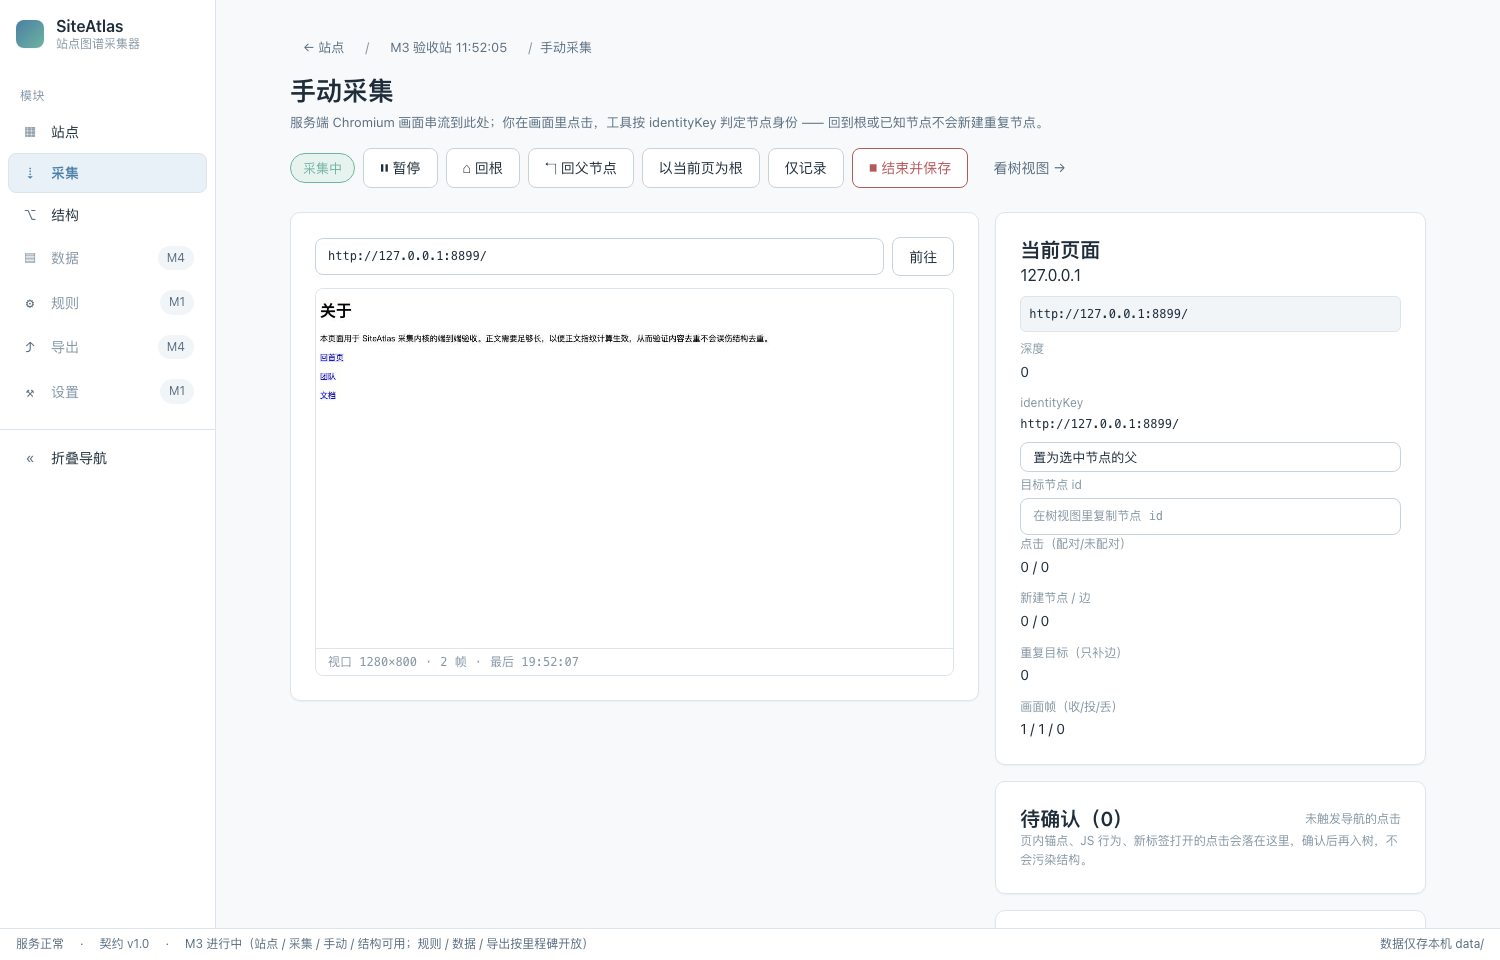
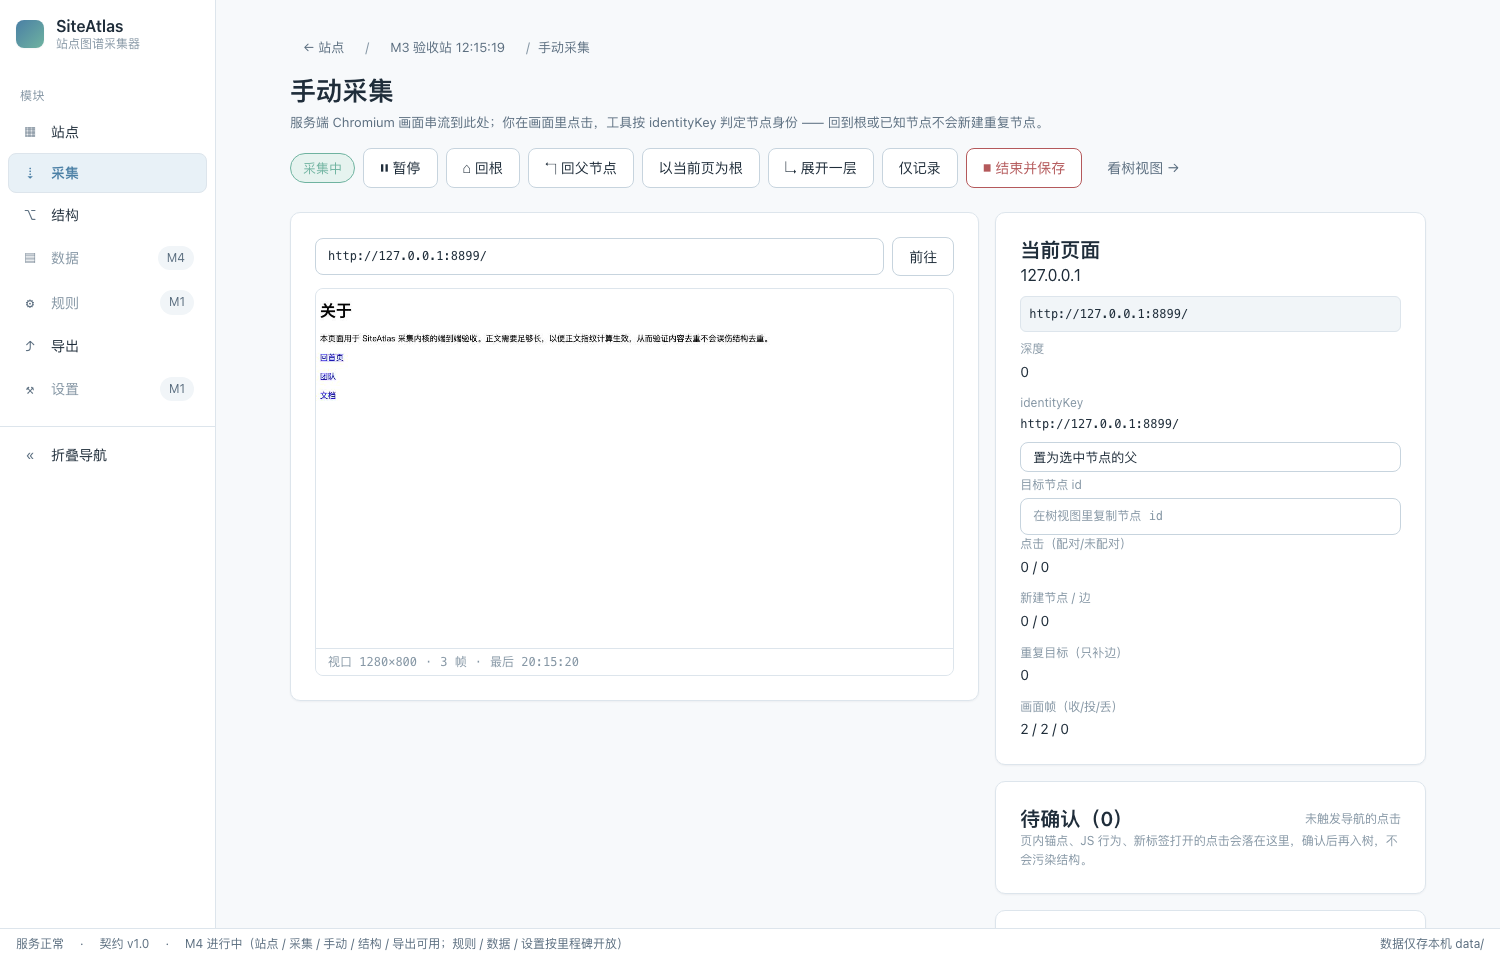
M4: 补齐 requirements §4.3 的「展开一层」动作与复查结论
- 手动会话新增 expandOneLevel()：当前页下建占位节点（need_human）+ 建 manual 边 + 导航过去，
  连续展开复用同一基址不套娃；暂停时拒绝
- WS 新增上行消息 expand，前端工具条补上「↳ 展开一层」按钮
- M3 单元测试 +1（11 项）、M3 e2e 断言 +3（25 项全过）
- DECISIONS 记录：复查全量规格后确认「不在 M4 范围」的条目清单（导出预设界面、聚焦子树按钮、
  站点对比、定时重爬、sitemap 种子、深色模式、首次运行合规提示、跨平台实机验证）
- README 同步（M3 25 项 / npm test 109 项）

diff --git a/server/src/core/manual/session.ts b/server/src/core/manual/session.ts
@@ -492,6 +492,70 @@ export class ManualSession {
     return { ...node, __fresh: created };
   }
 
+  /* ---------------- 展开一层（§4.3 手动工具条 / §6.5 记录并展开） ---------------- */
+
+  /**
+   * 展开一层：在当前页面下虚拟出一个「下一层」，导航过去并建边建节点。
+   *
+   * 为什么要有这个动作（而不是只靠用户点链接）：
+   *   requirements §4.3 的手动模式工具条明确要求「开始-暂停-继续-回根-**展开一层**-结束并保存」。
+   *   当页面上的链接被 JS 拦截、或用户想按自己的意图继续深入（例如页面还没做完），
+   *   点链接走不通 —— 这时需要一个「我说了算」的推进动作。
+   *
+   * 地址怎么来：手动模式没有真实的目标地址可用（是用户意图，不是页面上存在的链接），
+   * 因此按当前页地址派生一个**可预期的占位地址**：`<当前路径>/siteatlas-expand/<序号>`。
+   *   · 只写本地图（节点 + 边），不改站点数据；
+   *   · 目标页大概率不存在（404）——这是这个动作的固有语义，记在 node.status='need_human'
+   *     并在事件里说清楚：占位节点的地址应当在「修改地址」里改成真实地址。
+   *   · 若该占位地址已被占用（重复点），序号自增，保证每次都是新的一层。
+   */
+  async expandOneLevel(): Promise<{ ok: boolean; message: string; nodeId: string | null; url: string | null }> {
+    if (this.status !== 'running') {
+      return { ok: false, message: '会话未在记录状态（暂停/已结束），无法展开', nodeId: null, url: null };
+    }
+    const current = this.current;
+    if (current === null) return { ok: false, message: '当前页面身份未知', nodeId: null, url: null };
+
+    const base = this.safeNormalize(current.url);
+    if (base === null) return { ok: false, message: `当前地址不合法：${current.url}`, nodeId: null, url: null };
+
+    // 若当前页本身就是占位地址（连续展开），从它的基址继续，避免 /siteatlas-expand/1/siteatlas-expand/1 这种套娃
+    const prefix = (base.url.replace(/\/+$/, '').replace(/\/siteatlas-expand\/\d+$/, '') || base.url.replace(/\/+$/, ''));
+    let candidate: string | null = null;
+    let normalized: ReturnType<typeof this.safeNormalize> = null;
+    for (let seq = 1; seq <= 50; seq++) {
+      normalized = this.safeNormalize(`${prefix}/siteatlas-expand/${seq}`);
+      if (normalized === null) break;
+      if (this.nodes.findByUrlForSite(this.deps.siteId, normalized.url, normalized.identityKey) === null) {
+        candidate = normalized.url;
+        break;
+      }
+    }
+    if (candidate === null || normalized === null) {
+      return { ok: false, message: '无法派生占位地址（当前地址形态不支持）', nodeId: null, url: null };
+    }
+    if (!this.inScope(normalized)) {
+      return { ok: false, message: `超出站点范围（${this.deps.siteScope}）：${normalized.host}`, nodeId: null, url: null };
+    }
+
+    const node = this.upsertNode({
+      url: normalized.url,
+      identityKey: normalized.identityKey,
+      parentId: current.nodeId,
+      depth: Math.min(MAX_MANUAL_DEPTH, current.depth + 1),
+      displayLabel: deriveDisplayLabel({ url: normalized.url, title: null }),
+      reason: 'expand-one-level',
+    });
+    // 占位地址不是抓来的页面：标成 need_human，提示用户回来改地址
+    this.nodes.setStatus(node.id, 'need_human');
+    this.linkEdge({ fromNodeId: current.nodeId, toNodeId: node.id, payload: null, href: normalized.url });
+    this.emit('warn', `已展开一层（占位地址 ${normalized.url}）——页面多半不存在，请在树视图里用「修改地址」改成真实地址`);
+
+    // 等导航落地再返回：调用方（WS）随后立刻取 state，若不等就会拿到「展开前」的身份
+    await this.navigate(normalized.url);
+    return { ok: true, message: `已展开一层：${normalized.url}`, nodeId: node.id, url: normalized.url };
+  }
+
   /* ---------------- 待确认队列与人工指定 ---------------- */
 
   private pushPendingConfirm(item: PendingConfirm): void {

diff --git a/server/src/core/manual/manual.test.ts b/server/src/core/manual/manual.test.ts
@@ -263,6 +263,49 @@ test('M3 人工指定：以当前页为根 / 置为父节点（防环）+ 痕迹
   }
 });
 
+test('M3 展开一层：在当前页下建占位节点 + 建边 + 导航过去，且不重复', async () => {
+  const h = await makeHarness();
+  try {
+    const { session, page } = h.makeSession();
+    await session.start();
+
+    page.pushClick({ href: 'http://t.local/a', anchorText: 'A' });
+    page.pushNavigation('http://t.local/a');
+    const aId = session.state().current?.nodeId as string;
+
+    const before = h.handle.db.prepare('SELECT COUNT(*) AS c FROM nodes WHERE site_id = ?').get(h.siteId) as { c: number };
+    const expanded = await session.expandOneLevel();
+    assert.equal(expanded.ok, true, expanded.message);
+    assert.equal(expanded.url, 'http://t.local/a/siteatlas-expand/1');
+    assert.equal(session.state().current?.nodeId, expanded.nodeId, '展开后应导航过去（身份切到新节点）');
+    assert.equal(page.navigationHistory.at(-1), 'http://t.local/a/siteatlas-expand/1');
+
+    const after = h.handle.db.prepare('SELECT COUNT(*) AS c FROM nodes WHERE site_id = ?').get(h.siteId) as { c: number };
+    assert.equal(after.c, before.c + 1, '展开一层应新建 1 个节点');
+
+    const node = h.nodes.get(expanded.nodeId as string);
+    assert.equal(node?.auto_parent_id, aId, '新节点应挂在展开前的当前页下');
+    assert.equal(node?.status, 'need_human', '占位地址不是真实页面，标记为待人工处理');
+    const edgeCount = h.handle.db
+      .prepare("SELECT COUNT(*) AS c FROM edges WHERE site_id = ? AND from_id = ? AND to_id = ?")
+      .get(h.siteId, aId, expanded.nodeId) as { c: number };
+    assert.equal(edgeCount.c, 1, '展开应同时建一条边');
+
+    // 再点一次：不能复用同一个占位地址（否则等于原地踏步）
+    const second = await session.expandOneLevel();
+    assert.equal(second.ok, true);
+    assert.equal(second.url, 'http://t.local/a/siteatlas-expand/2');
+
+    // 暂停时不允许展开
+    session.pause();
+    const blocked = await session.expandOneLevel();
+    assert.equal(blocked.ok, false);
+    assert.match(blocked.message, /未在记录状态/);
+  } finally {
+    h.close();
+  }
+});
+
 test('M3 回根/回父都是绝对导航，且输入事件原样回传', async () => {
   const h = await makeHarness();
   try {

diff --git a/web/src/modules/manual/ManualPage.tsx b/web/src/modules/manual/ManualPage.tsx
@@ -126,6 +126,14 @@ export function ManualPage({ siteId }: ManualPageProps): React.JSX.Element {
               </button>
               <button
                 type="button"
+                className="btn"
+                onClick={() => send({ type: 'expand' })}
+                title="在当前页面下虚拟出一个下一层并导航过去（占位地址，之后可在树视图里改地址）"
+              >
+                ↳ 展开一层
+              </button>
+              <button
+                type="button"
                 className={state?.progressMode === 'record-and-expand' ? 'btn btn--primary' : 'btn'}
                 onClick={() =>
                   send({ type: 'mode', mode: state?.progressMode === 'record-and-expand' ? 'record-only' : 'record-and-expand' })

diff --git a/server/src/api/ws-manual.ts b/server/src/api/ws-manual.ts
@@ -41,6 +41,7 @@ export interface ManualUpstream {
     | 'back-parent'
     | 'set-root'
     | 'set-parent'
+    | 'expand'
     | 'mode'
     | 'pause'
     | 'resume'
@@ -125,6 +126,11 @@ export async function registerManualWsRoutes(app: FastifyInstance, service: Manu
             case 'back-parent':
               await session.backToParent();
               break;
+            case 'expand': {
+              const outcome = await session.expandOneLevel();
+              if (!outcome.ok) send({ type: 'error', code: 'EXPAND_FAILED', message: outcome.message });
+              break;
+            }
             case 'set-root':
               session.setCurrentAsRoot();
               break;

diff --git a/web/src/modules/manual/api.ts b/web/src/modules/manual/api.ts
@@ -89,6 +89,7 @@ export type ManualUpstreamMessage =
   | { type: 'navigate'; url: string }
   | { type: 'back-root' }
   | { type: 'back-parent' }
+  | { type: 'expand' }
   | { type: 'set-root' }
   | { type: 'set-parent'; nodeId: string }
   | { type: 'mode'; mode: 'record-only' | 'record-and-expand' }

diff --git a/README.md b/README.md
@@ -13,7 +13,7 @@
 | M0 骨架 | ✅ | 仓库结构、SQLite 迁移、URL 规范化与身份、`/api/sites` 五接口、站点卡片视图 |
 | M1 自动采集 | ✅ | 抓取器（静态 + JS 回落）、持久化队列、三层去重、全部护栏、实时进度、懒加载树视图 |
 | M2 树视图 | ✅ | 虚拟滚动、懒加载、属性面板、隐藏地址、软删、撤销重做、拖拽重挂、回收站 |
-| M3 手动采集 | ✅ | CDP 画面串流 + 输入回传 + 点击捕获 + 回根识别（验收 22 项断言全过） |
+| M3 手动采集 | ✅ | CDP 画面串流 + 输入回传 + 点击捕获 + 回根识别 + 展开一层（验收 25 项断言全过） |
 | M4 导出与开放 | ✅ | JSON/JSONL/CSV/SQLite/Mermaid 导出 + manifest + 对外只读 API（验收 28 项，含独立第三方脚本） |
 
 
@@ -40,7 +40,10 @@ M3 已实现的关键机制：
 - **输入**：画面上的鼠标/键盘/滚轮折成 CDP `Input.dispatchMouseEvent` / `dispatchKeyEvent` 回传，等于「在浏览器里手动点」；
 - **点击捕获**：`Runtime.addBinding` + 捕获阶段 click 监听，点击先进「点击↔导航」配对队列，只有真的发生导航才建边建节点；未触发导航的点击进**待确认队列**（界面实时显示，确认后才入树）；
 - **身份与回根**：一律按 `identityKey` 判身份，回到根/已知节点**只补边不重复建节点**；回根/回父用绝对 URL 导航，不用浏览器后退；越界导航被范围校验拒绝；
-- **人工纠正**：「以当前页为根」「置为父节点」直写并留 `manual_overrides` 痕迹；防环校验沿祖先链。
+- **人工纠正**：「以当前页为根」「置为父节点」直写并留 `manual_overrides` 痕迹；防环校验沿祖先链；
+- **展开一层**（§4.3 工具条）：为「链接被 JS 拦截 / 用户想按自己意图继续深入」提供一个明确的推进动作 ——
+  在当前页下建一个占位子节点（派生地址 `<当前路径>/siteatlas-expand/<n>`，标 `need_human`）并导航过去，
+  之后可在树视图用「修改地址」改成真实地址。
 
 M2 已实现的关键机制：
 
@@ -90,7 +93,7 @@ npm run dev          # server 用 tsx watch（:8787），web 用 vite（:5173，
 ## 校验
 
 ```bash
-npm test             # node --test：URL 规范化/范围、迁移与 DDL、/api/sites、采集内核与接口、WS、手动会话、导出与只读 API（108 项）
+npm test             # node --test：URL 规范化/范围、迁移与 DDL、/api/sites、采集内核与接口、WS、手动会话、导出与只读 API（109 项）
 npm run typecheck    # shared + server + web 三处 tsc --noEmit
 
 node scripts/demo-site.mjs 8899      # 起本地演示站（多级/多父/变体/404/robots/素材/SPA/分页）
@@ -98,7 +101,7 @@ node scripts/demo-site.mjs 8899      # 起本地演示站（多级/多父/变体
 node scripts/e2e-m0-screenshot.mjs   # M0 端到端 + 截图
 node scripts/e2e-m1-crawl.mjs        # M1 端到端：建站→订阅 WS→采集→树→自检→截图（14 项断言）
 node scripts/e2e-m2-tree.mjs         # M2 端到端：拖拽重挂/撤销重做/批量/属性/回收站/12k 节点压测（18 项断言）
-node scripts/e2e-m3-manual.mjs       # M3 端到端：真实 Chromium 手动点选建边/回根不重复建节点/待确认确认与丢弃（22 项断言）
+node scripts/e2e-m3-manual.mjs       # M3 端到端：真实 Chromium 手动点选建边/回根不重复建节点/展开一层/待确认确认与丢弃（25 项断言）
 node scripts/e2e-m4-export.mjs       # M4 端到端：五种格式导出 + manifest + 只读 API + 独立第三方脚本消费（28 项断言）
 ```
 

diff --git a/docs/DECISIONS.md b/docs/DECISIONS.md
@@ -161,3 +161,10 @@
 - [验收][M4] `scripts/e2e-m4-export.mjs` 的第三方消费脚本**写到系统临时目录、不 import 本仓库任何模块**，只用 `fetch` + `node:crypto` 把 manifest 里的每个文件取回并校验 sha256——理由：验收标准说的是「第三方脚本」，若复用仓库里的类型或导出函数，这条验收就变成自证；独立进程 + 独立文件才是真证据。
 - [测试][M4] 新增 `core/export/export.test.ts`（7 项：投影/软删/子树/写出器/流式等价/服务编排/错误码）与 `api/export-api.test.ts`（4 项：素材归档/导出接口/只读 API/404）——理由：导出与只读 API 是「对外契约」，必须用真实 Fastify 实例 + 本地 fixture 站点验证，临时目录承载产物以免污染仓库 `data/`。
 - [测试][M4] 迁移幂等测试的期望列表补上 `004_export_records`——理由：迁移清单是显式断言的，新增迁移必须同步（避免「悄悄多跑了一条 DDL」）。
+
+## 补齐与已知边界（M4 收尾时对全量规格的复查）
+
+- [补齐][M4] 手动工具条补上 **「展开一层」**（requirements §4.3 明确列出的按钮，M3 当时只做了「仅记录 / 记录并展开一层」的模式切换，把动作本身漏了）——实现语义见下一条。
+- [补齐][M4] 「展开一层」= 在当前页下建**占位节点**（地址按 `<当前路径>/siteatlas-expand/<n>` 派生，标 `need_human`）+ 建一条 `source='manual'` 的边 + 导航过去；连续展开会复用同一基址（不会套娃成 `/siteatlas-expand/1/siteatlas-expand/1`）——理由：手动模式下「下一层」是用户意图而不是页面上存在的链接，必须有一个不需要真实链接就能推进的动作；占位地址多半返回 404，所以标记 `need_human` 并在事件里提示「请在树视图里改地址」，这是该动作的固有语义而非缺陷。
+- [补齐][M4] 复查全量规格后，以下条目**明确不在 M4 范围**并记录在案（都属于 requirements §9 的 P2 或界面增强，不影响任何里程碑验收）：导出预设的保存/复用（`exports.preset_id` 字段与接口参数已就绪，只差界面）、「聚焦子树」按钮（等价能力可用 `/api/sites/:id/search` + 树视图）、站点差异对比、定时重爬、sitemap 种子、深色模式、首次运行的合规提示弹窗、Windows/Linux 实机验证。
+- [边界][M4] `settings` 表暂未使用（没有需要持久化的全局设置）：预设类数据走 `presets` 表、站点级参数在 `sites` 表，避免出现两张「什么都往里塞」的表。
